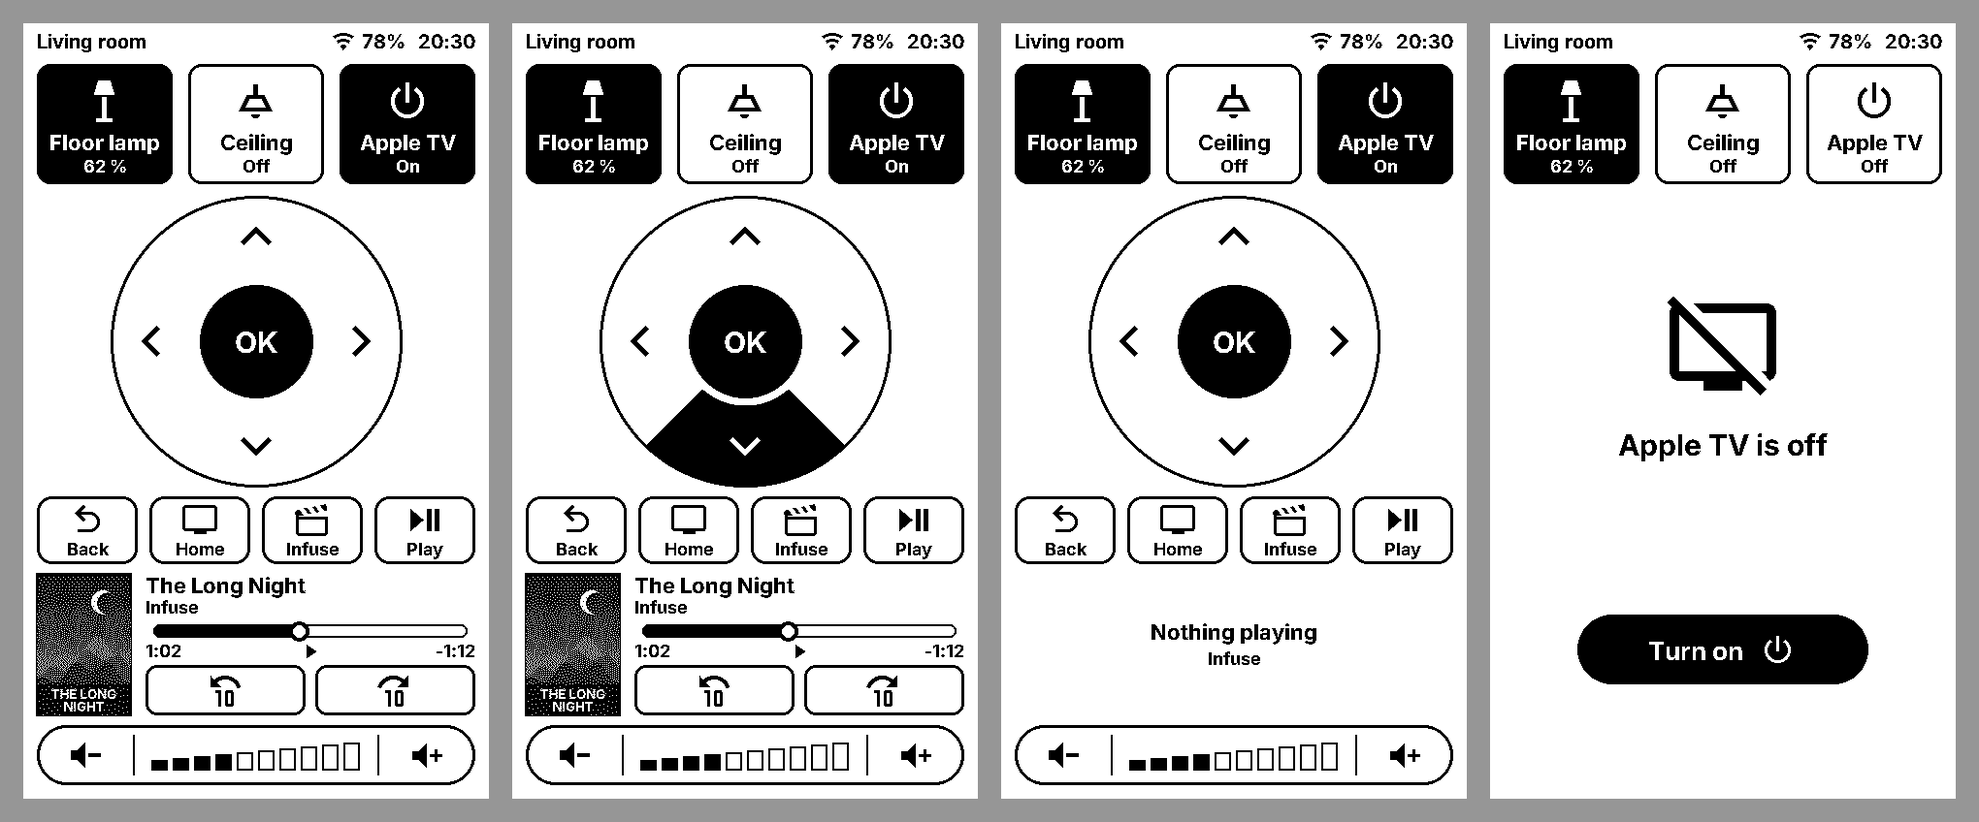
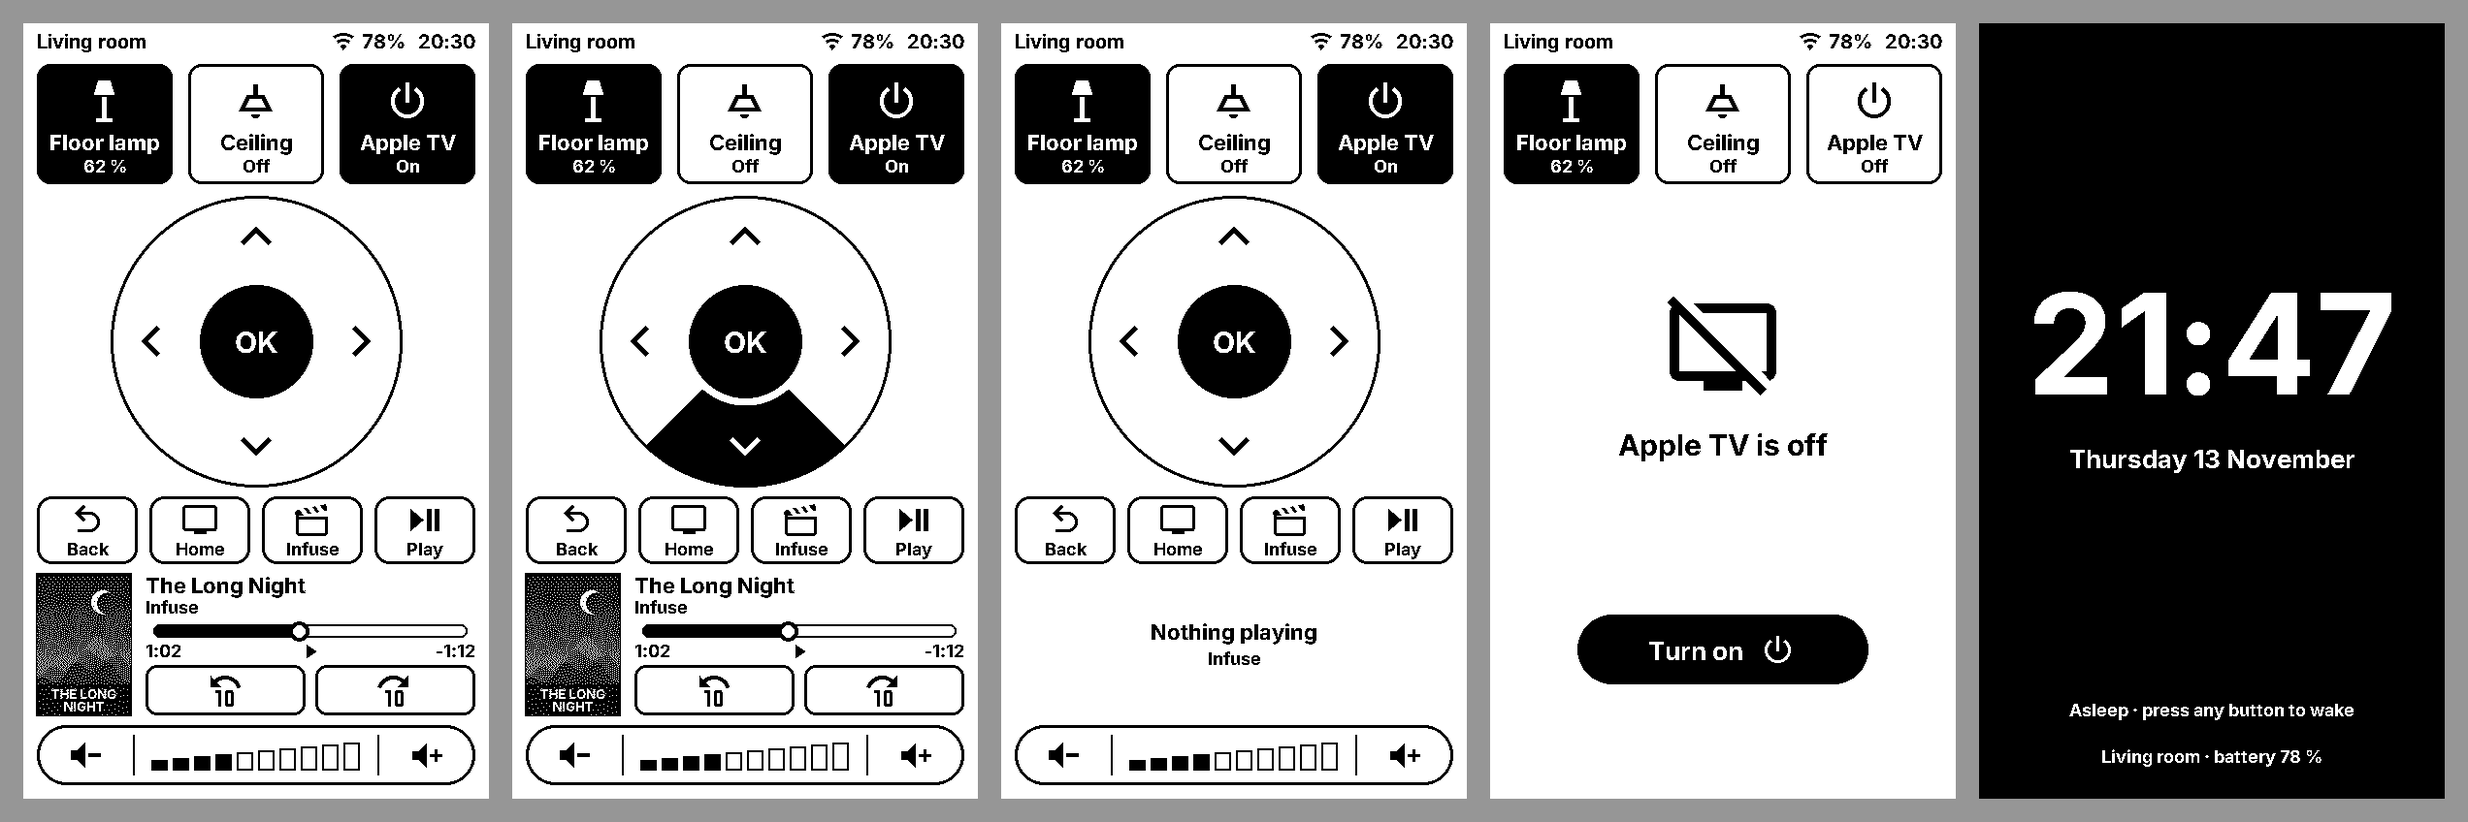
Sleep clock, light-sleep doze, Wi-Fi modem sleep off
Asleep on battery the panel now shows a large clock with the date, ticking
once a minute: the firmware disables Wi-Fi and dozes in ESP32 light sleep
(sticky::doze), waking on the timer for a partial refresh, on a button or
on USB power for real. The half hours get a full refresh to clear the ghost
of old digits. A "Clock while asleep" switch (HA, the setup page, the USB
protocol's sleep_clock) falls back to the dark face and deep sleep.

The clock digits are a font of their own in each set (Inter 144, TRMNL16 at
128), in the engine, the web glyph files and the README picture.

Taps: Wi-Fi power_save_mode none (ESPHome's ESP32 default is modem sleep,
which holds packets back and bunches them up); hold-to-repeat gives up after
3 s rather than 8 if the touch controller never reports the release.

Version 0.6.0.

diff --git a/web/sticky-serial.js b/web/sticky-serial.js
@@ -158,7 +158,7 @@ export class DemoSticky {
       this.state.settings = { player: "media_player.salon", remote: "remote.salon", player_name: "Apple TV", app: "Infuse",
         app_label: "Open Infuse", light1: "light.floor_lamp", light1_name: "Floor lamp", light1_icon: "floor",
         light2: "light.ceiling", light2_name: "Ceiling", light2_icon: "ceiling", room: "Salon", ha_url: "", font_set: "inter",
-        touch_sound: "quiet", sleep_after: "3" };
+        touch_sound: "quiet", sleep_after: "3", sleep_clock: "on" };
     }
   }
   /** Demo: after "flashing", the new version runs; erasing loses everything. */
@@ -182,7 +182,7 @@ export class DemoSticky {
       wifi: s.wifi && !(this.booted && Date.now() - this.booted < 4000) ? { connected: true, hotspot: false, ip: "192.168.1.57", ssid: s.wifi.ssid }
                    : { connected: false, hotspot: true, ip: "" },
       ha: s.ha, configured: !!(s.settings.player || s.settings.light1), settings: s.settings,
-      caps: ["scan", "touch_sound", "sleep_after"],
+      caps: ["scan", "touch_sound", "sleep_after", "sleep_clock"],
       networks: this.scanned && Date.now() - this.scanned > 2500
         ? [{ ssid: "Maison", rssi: -48, secure: true }, { ssid: "Maison-IoT", rssi: -61, secure: true },
            { ssid: "Maison", rssi: -70, secure: true }, { ssid: "Cafe du coin", rssi: -77, secure: false },

diff --git a/web/wizard.js b/web/wizard.js
@@ -31,7 +31,7 @@ const S = {
   settings: {
     player: "", remote: "", player_name: "", app: "", app_label: "",
     light1: "", light1_name: "", light1_icon: "bulb", light2: "", light2_name: "", light2_icon: "bulb",
-    room: "", ha_url: "", font_set: "inter", touch_sound: "quiet", sleep_after: "3",
+    room: "", ha_url: "", font_set: "inter", touch_sound: "quiet", sleep_after: "3", sleep_clock: "on",
   },
   timers: [],
   skipped: new Set(),   // steps this visit doesn't need (shown with a dash)
@@ -382,6 +382,8 @@ const VIEWS = [
               ${has("touch_sound") ? seg("touch_sound", "Sound when you tap", [["off", "Off"], ["quiet", "Quiet"], ["normal", "Normal"]]) : ""}
               ${has("sleep_after") ? `${seg("sleep_after", "On battery, sleeps after", [["1", "1 min"], ["3", "3 min"], ["10", "10 min"], ["30", "30 min"], ["never", "Never"]])}
                 <p class="hint" id="sleep-hint"></p>` : ""}
+              ${has("sleep_clock") ? `${seg("sleep_clock", "While asleep", [["on", "Clock"], ["off", "Dark screen"]])}
+                <p class="hint">The clock ticks once a minute, which costs some battery. The dark screen uses the least.</p>` : ""}
             </section>
             <details><summary>Advanced</summary>
               ${pick("remote", "remote", "The player's remote entity (arrows and OK)")}

diff --git a/firmware/sticky_device.h b/firmware/sticky_device.h
@@ -41,11 +41,13 @@
 #include "esphome/core/preferences.h"
 
 #include "driver/uart.h"
+#include "driver/gpio.h"
 #include "esp_crt_bundle.h"
 #include "esp_heap_caps.h"
 #include "esp_timer.h"
 #include "esp_wifi.h"
 #include "esp_http_client.h"
+#include "esp_sleep.h"
 #include "freertos/FreeRTOS.h"
 #include "freertos/task.h"
 #include "remote_ui.h"
@@ -55,7 +57,7 @@ namespace sticky {
 static const char *const TAG = "sticky";
 constexpr int PROTOCOL = 1;
 // What this firmware's USB protocol can do beyond version 1, for the setup page.
-static const char *const CAPS[] = {"scan", "touch_sound", "sleep_after"};
+static const char *const CAPS[] = {"scan", "touch_sound", "sleep_after", "sleep_clock"};
 
 struct Settings {
   std::string player, remote, player_name, app, app_label;
@@ -184,6 +186,64 @@ inline void set_sleep(uint8_t choice) {
 /// Milliseconds of inactivity before sleeping on battery; 0 = never.
 inline uint32_t sleep_after_ms() { return (uint32_t) SLEEP_MINUTES[sleep_choice()] * 60000u; }
 
+// --- Clock while asleep (its own preference) --------------------------------------
+// On: asleep on battery, the panel shows the time and the firmware dozes in
+// light sleep, waking once a minute to move it (doze() below). Off: the dark
+// "Asleep" face and deep sleep, which uses less.
+inline bool &clock_on() {
+  static bool on = true;
+  return on;
+}
+
+inline esphome::ESPPreferenceObject &clock_pref() {
+  static esphome::ESPPreferenceObject p = esphome::global_preferences->make_preference<uint8_t>(0x53434C4B, true);
+  return p;
+}
+
+inline void load_clock() {
+  uint8_t v = 1;
+  if (clock_pref().load(&v)) clock_on() = v != 0;
+  remote_ui::apply("sleep_clock", clock_on() ? "1" : "0");
+}
+
+inline void set_clock(bool on) {
+  if (on == clock_on()) return;
+  clock_on() = on;
+  const uint8_t v = on ? 1 : 0;
+  clock_pref().save(&v);
+  esphome::global_preferences->sync();
+  remote_ui::apply("sleep_clock", on ? "1" : "0");
+}
+
+enum class Woke { TIMER, BUTTON, USB, OTHER };
+
+/// Light sleep until the next whole minute (at most `max_s` seconds), a button
+/// (low on GPIO4/5/6) or USB power (high on GPIO9). Wi-Fi must be off first.
+/// Everything is kept: the panel's comparison frame, the clock, the settings.
+inline Woke doze(uint32_t max_s) {
+  const time_t t = ::time(nullptr);
+  uint32_t s = max_s;
+  if (t > 1600000000) s = std::min<uint32_t>(max_s, (uint32_t) (60 - t % 60));
+  if (s == 0) s = 60;
+  // The latch, charger and touch supply keep their levels; the buttons keep their pull-ups.
+  for (auto pin : {GPIO_NUM_45, GPIO_NUM_46, GPIO_NUM_39, GPIO_NUM_42, GPIO_NUM_4, GPIO_NUM_5, GPIO_NUM_6, GPIO_NUM_9})
+    gpio_sleep_sel_dis(pin);
+  for (auto pin : {GPIO_NUM_4, GPIO_NUM_5, GPIO_NUM_6}) gpio_wakeup_enable(pin, GPIO_INTR_LOW_LEVEL);
+  gpio_wakeup_enable(GPIO_NUM_9, GPIO_INTR_HIGH_LEVEL);
+  esp_sleep_enable_gpio_wakeup();
+  esp_sleep_enable_timer_wakeup((uint64_t) s * 1000000ULL + 200000ULL);   // just past the minute mark
+  esp_light_sleep_start();
+  const auto cause = esp_sleep_get_wakeup_cause();
+  // Leave nothing armed: deep sleep (clock off) sets up its own wake sources.
+  for (auto pin : {GPIO_NUM_4, GPIO_NUM_5, GPIO_NUM_6, GPIO_NUM_9}) gpio_wakeup_disable(pin);
+  esp_sleep_disable_wakeup_source(ESP_SLEEP_WAKEUP_GPIO);
+  esp_sleep_disable_wakeup_source(ESP_SLEEP_WAKEUP_TIMER);
+  esphome::App.feed_wdt();
+  if (cause == ESP_SLEEP_WAKEUP_TIMER) return Woke::TIMER;
+  if (cause == ESP_SLEEP_WAKEUP_GPIO) return gpio_get_level(GPIO_NUM_9) ? Woke::USB : Woke::BUTTON;
+  return Woke::OTHER;
+}
+
 // --- Touch calibration (its own preference, so settings resets keep it) -------
 struct StoredCal {
   uint32_t magic;
@@ -270,6 +330,7 @@ inline void apply_to_ui() {
   remote_ui::apply("light_icon1", s.light2_icon);
   remote_ui::apply("configured", s.configured() ? "1" : "0");
   remote_ui::apply("app_button", s.app);
+  remote_ui::apply("sleep_clock", clock_on() ? "1" : "0");
 }
 
 // --- Artwork ------------------------------------------------------------------------
@@ -628,6 +689,7 @@ inline std::string info(const char *event) {
 #undef X
     st["touch_sound"] = SOUND_NAMES[sound()];
     st["sleep_after"] = SLEEP_NAMES[sleep_choice()];
+    st["sleep_clock"] = clock_on() ? "on" : "off";
     JsonArray caps = root["caps"].to<JsonArray>();
     for (const char *cap : CAPS) caps.add(cap);
     if (w != nullptr) {
@@ -687,6 +749,10 @@ inline void handle(const std::string &line) {
       const std::string choice = in["sleep_after"].as<const char *>();
       for (uint8_t i = 0; i < SLEEP_CHOICES; i++)
         if (choice == SLEEP_NAMES[i]) set_sleep(i);
+    }
+    if (!in.isNull() && in["sleep_clock"].is<const char *>()) {
+      const std::string v = in["sleep_clock"].as<const char *>();
+      if (v == "on" || v == "off") set_clock(v == "on");
     }
     if (!in.isNull() && !save(s)) return send_error("Could not save the settings.");
     send_line(esphome::json::build_json([](JsonObject root) {

diff --git a/firmware/remote_ui.h b/firmware/remote_ui.h
@@ -131,6 +131,8 @@ struct Model {
   bool online = false;
   float battery = NAN;
   bool usb = false;
+  bool sleep_clock = true;        // asleep on battery: a clock that ticks every minute
+  int dow = 0, day = 0, month = 0;   // the local date, for the sleep clock (0: unknown)
   Page page = Page::REMOTE;   // always Remote since 0.5.0 (one page); kept for the engine's API
   bool state_seen = false;
   Press pressed = Press::NONE;
@@ -532,6 +534,7 @@ inline int shown_minute(const Model &m, int64_t now_epoch) {
 struct Fonts {
   BaseFont *t18, *t20, *t22, *t26, *t30;
   BaseFont *i24, *i40, *i52, *i64, *i120;
+  BaseFont *clock;   // digits and a colon only, for the sleep clock
 };
 
 struct Ctx {
@@ -1014,20 +1017,34 @@ inline void draw_setup_sleep(Ctx &c, const Model &m) {
   print_wrapped(c, M + 30, 560, c.f.t18, c.ink, "Plugged into USB, it stays awake during setup.", W - 2 * M - 60, 24);
 }
 
-// The face left on the panel during deep sleep: drawn instead of the bottom
-// controls, which do nothing until a button wakes the device.
-// The face left on the panel during deep sleep. Dark, and nothing like the
-// live screen: tiles and playback shown there would be stale, and would look
-// as if they still answered a tap.
+// The face left on the panel while the Sticky sleeps. Dark, and nothing like
+// the live screen: tiles and playback shown there would be stale, and would
+// look as if they still answered a tap. With the sleep clock on, the time
+// takes the middle and ticks once a minute (the firmware dozes in between).
+static const char *const DAY_NAMES[] = {"", "Sunday", "Monday", "Tuesday", "Wednesday", "Thursday", "Friday", "Saturday"};
+static const char *const MONTH_NAMES[] = {"", "January", "February", "March", "April", "May", "June", "July",
+                                          "August", "September", "October", "November", "December"};
+
 inline void draw_asleep(Ctx &c, const Model &m, const char *room, bool time_valid, int hour, int minute) {
   c.it.fill(c.ink);
-  c.it.print(W / 2, 290, c.f.i120, c.paper, TextAlign::CENTER, ICON_SLEEP);
-  c.it.print(W / 2, 390, c.f.t30, c.paper, TextAlign::CENTER, "Asleep");
-  c.it.print(W / 2, 436, c.f.t20, c.paper, TextAlign::CENTER, "Press any button to wake");
+  const bool clock = m.sleep_clock && time_valid;
+  char buf[48];
+  if (clock) {
+    snprintf(buf, sizeof buf, "%d:%02d", hour, minute);
+    c.it.print(W / 2, 330, c.f.clock, c.paper, TextAlign::CENTER, buf);
+    if (m.month >= 1 && m.month <= 12 && m.dow >= 1 && m.dow <= 7) {
+      snprintf(buf, sizeof buf, "%s %d %s", DAY_NAMES[m.dow], m.day, MONTH_NAMES[m.month]);
+      c.it.print(W / 2, 448, c.f.t26, c.paper, TextAlign::CENTER, buf);
+    }
+    c.it.print(W / 2, H - 92, c.f.t18, c.paper, TextAlign::CENTER, "Asleep · press any button to wake");
+  } else {
+    c.it.print(W / 2, 290, c.f.i120, c.paper, TextAlign::CENTER, ICON_SLEEP);
+    c.it.print(W / 2, 390, c.f.t30, c.paper, TextAlign::CENTER, "Asleep");
+    c.it.print(W / 2, 436, c.f.t20, c.paper, TextAlign::CENTER, "Press any button to wake");
+  }
   // What was true when it fell asleep, said as such.
   std::string foot = room;
-  char buf[40];
-  if (time_valid) {
+  if (time_valid && !clock) {
     snprintf(buf, sizeof buf, "%ssince %d:%02d", foot.empty() ? "" : " · ", hour, minute);
     foot += buf;
   }
@@ -1325,6 +1342,15 @@ inline void apply(const std::string &key, const std::string &v) {
   } else if (key == "configured") {
     m.configured = v == "1";
     return request(true);
+  } else if (key == "sleep_clock") {
+    m.sleep_clock = v == "1";
+    if (!m.sleeping) return;
+  } else if (key == "date") {   // "day-of-week day month", as ESPTime counts them (Sunday = 1)
+    int dow = 0, day = 0, month = 0;
+    sscanf(v.c_str(), "%d %d %d", &dow, &day, &month);
+    if (dow == m.dow && day == m.day && month == m.month) return;
+    m.dow = dow; m.day = day; m.month = month;
+    if (!m.sleeping) return;
   } else if (key == "picture") {
     // New artwork: no poster until its download lands.
     const std::string pic = clean(v);
@@ -1364,7 +1390,9 @@ inline Actions *&actions() {
 // Keeping a finger on an arrow (or a volume end) repeats it, so long lists
 // scroll without tapping. A repeat sends the command and nothing else: the
 // arrow is already shown pressed, so the screen has nothing to redraw.
-constexpr uint32_t HOLD_START_MS = 450, HOLD_EVERY_MS = 220, HOLD_MAX_MS = 8000;
+// HOLD_MAX_MS bounds a release the touch controller never reported: after it
+// the finger has to lift and press again, which also ends a runaway repeat.
+constexpr uint32_t HOLD_START_MS = 450, HOLD_EVERY_MS = 220, HOLD_MAX_MS = 3000;
 
 struct Hold {
   Action action = NONE;

diff --git a/web/make_web_fonts.py b/web/make_web_fonts.py
@@ -1,7 +1,8 @@
 #!/usr/bin/env python3
 """Extracts the firmware's exact glyphs from an ESPHome build (main.cpp) into
 web/fonts/<set>/<role>.fnt, the format the engine's sc_font_load_fnt_text reads.
-Both typefaces are in every build: Inter t18…t30, TRMNL r18…r30; icons i24…i120.
+Both typefaces are in every build: Inter t18…t30, TRMNL r18…r30; icons i24…i120;
+the sleep clock's digits (clock_inter, clock_trmnl).
 
   python3 web/make_web_fonts.py [path/to/main.cpp]
 """
@@ -21,12 +22,12 @@ for m in re.finditer(r"static constexpr font::Glyph (\w+)\[\] PROGMEM = \{(.*)\}
 fonts = {m[1]: (int(m[3]), int(m[4]), tables[m[2]])
          for m in re.finditer(r"new\((\w+)\) font::Font\((\w+), \d+, (\d+), (\d+),", src)}
 
-roles = ["t18", "t20", "t22", "t26", "t30", "i24", "i40", "i52", "i64", "i120"]
+roles = ["t18", "t20", "t22", "t26", "t30", "i24", "i40", "i52", "i64", "i120", "clock"]
 for set_name, prefix in (("inter", "t"), ("trmnl", "r")):
     out = ROOT / "web" / "fonts" / set_name
     out.mkdir(parents=True, exist_ok=True)
     for role in roles:
-        fid = prefix + role[1:] if role.startswith("t") else role
+        fid = prefix + role[1:] if role.startswith("t") else f"clock_{set_name}" if role == "clock" else role
         baseline, height, glyphs = fonts[fid]
         lines = [f"font {baseline} {height}"]
         for cp, arr, off, adv, ox, oy, w, h in glyphs:

diff --git a/design/render_screens.py b/design/render_screens.py
@@ -21,7 +21,7 @@ PLAYING = ["atv_state playing", "app Infuse", "title The Long Night", "duration 
            "position_at 2026-10-26T18:00:00+00:00", "picture night"]
 
 
-def shot(extra, taps=(), with_poster=False):
+def shot(extra, taps=(), with_poster=False, hm=(20, 30)):
     p = subprocess.Popen([str(TMP / "sim"), str(ROOT / "web" / "fonts" / "inter")],
                          stdin=subprocess.PIPE, stdout=subprocess.PIPE, text=True)
     def cmd(line):
@@ -34,16 +34,17 @@ def shot(extra, taps=(), with_poster=False):
         cmd(f"poster {raw} {poster.width} {poster.height}")
     for x, y in taps:
         cmd(f"tap {x} {y} {NOW}")
-    time.sleep(0.35)
+    time.sleep(0.5)
     pbm = TMP / "screens.pbm"
-    cmd(f"frame {pbm} 1 20 30 {NOW}")
+    cmd(f"frame {pbm} 1 {hm[0]} {hm[1]} {NOW}")
     im = Image.open(pbm).convert("L")
     p.kill()
     return im
 
 
 screens = [shot(PLAYING, with_poster=True), shot(PLAYING, taps=[(240, 440)], with_poster=True),   # a pressed arrow
-           shot(["atv_state idle", "app Infuse"]), shot(["atv_state off"])]
+           shot(["atv_state idle", "app Infuse"]), shot(["atv_state off"]),
+           shot(["atv_state off", "date 5 13 11", "sleeping 1"], hm=(21, 47))]   # asleep, with the clock
 gap = 24
 sheet = Image.new("L", (len(screens) * 480 + (len(screens) + 1) * gap, 800 + 2 * gap), 150)
 for i, im in enumerate(screens):

diff --git a/engine/core/sticky_core.cpp b/engine/core/sticky_core.cpp
@@ -15,11 +15,11 @@ namespace {
 
 display::BaseFont g_fonts[SC_FONT_COUNT];
 const char *const kFontNames[SC_FONT_COUNT] = {"t18", "t20", "t22", "t26", "t30",
-                                               "i24", "i40", "i52", "i64", "i120"};
+                                               "i24", "i40", "i52", "i64", "i120", "clock"};
 
 const remote_ui::Fonts &fonts() {
   static const remote_ui::Fonts f{&g_fonts[0], &g_fonts[1], &g_fonts[2], &g_fonts[3], &g_fonts[4],
-                                  &g_fonts[5], &g_fonts[6], &g_fonts[7], &g_fonts[8], &g_fonts[9]};
+                                  &g_fonts[5], &g_fonts[6], &g_fonts[7], &g_fonts[8], &g_fonts[9], &g_fonts[10]};
   return f;
 }
 

diff --git a/engine/make_fonts.py b/engine/make_fonts.py
@@ -37,7 +37,8 @@ SETS = json.loads((ROOT / "firmware" / "fonts" / "sets.json").read_text())
 
 
 def fonts_for(set_name):
-    text = {role: (ROOT / "firmware" / "fonts" / path, size, TEXT_CHARS)
+    chars = SETS.get("_chars", {})   # roles with a glyph subset (the clock: digits only)
+    text = {role: (ROOT / "firmware" / "fonts" / path, size, list(chars.get(role, TEXT_CHARS)))
             for role, (path, size) in SETS[set_name]["fonts"].items()}
     return {**text, **ICON_FONTS}
 

diff --git a/engine/core/include/sticky_core.h b/engine/core/include/sticky_core.h
@@ -9,7 +9,7 @@ extern "C" {
 #endif
 
 enum { SC_WIDTH = 480, SC_HEIGHT = 800 };
-enum { SC_FONT_COUNT = 10 };  // t18 t20 t22 t26 t30 i24 i40 i52 i64 i120, in that order
+enum { SC_FONT_COUNT = 11 };  // t18 t20 t22 t26 t30 i24 i40 i52 i64 i120 clock, in that order
 enum { SC_REFRESH_NONE = 0, SC_REFRESH_PARTIAL = 1, SC_REFRESH_FULL = 2 };
 enum { SC_BUTTON_AI = 0, SC_BUTTON_UP = 1, SC_BUTTON_DOWN = 2 };
 enum { SC_MODE_OFF = 0, SC_MODE_IDLE = 1, SC_MODE_PLAYING = 2 };

diff --git a/README.md b/README.md
@@ -38,11 +38,15 @@ page runs the whole wizard without a Sticky or a Home Assistant.
 - **One page, no tabs.** Everything is on screen at once, so nothing you do
   needs more than a fast partial refresh. The full refresh that clears
   e-paper ghosting waits until the Sticky has been left alone for 3 seconds.
-- **Sleep**: on battery it deep-sleeps after 1, 3 (default), 10 or 30 minutes,
-  or never by itself; the AI button puts it to sleep at once and any button
-  wakes it. Asleep, the panel shows a dark "Asleep" screen, not the last state.
-- **Touch sound** (Off, Quiet, Normal) and **Sleep after**: from the setup page
-  or the Sticky's device page in Home Assistant (`select`s under Configuration).
+- **Sleep**: on battery it sleeps after 1, 3 (default), 10 or 30 minutes, or
+  never by itself; the AI button puts it to sleep at once and any button wakes
+  it. Asleep, the panel shows a dark screen, not the last state: by default a
+  large **clock** with the date, which ticks once a minute (the Sticky dozes
+  in light sleep in between, Wi-Fi off, and wakes for a second to move it).
+  With the clock off it shows "Asleep" and deep-sleeps, which uses the least.
+- **Touch sound** (Off, Quiet, Normal), **Sleep after** and **Clock while
+  asleep**: from the setup page or the Sticky's device page in Home Assistant
+  (under Configuration).
 - **Artwork** loads in a background task: download (HTTPS with certificate
   checks) and JPEG decode at 1/2, 1/4 or 1/8 scale never hold up touch or the
   screen. Other formats fall back to ESPHome's `online_image`.
@@ -156,15 +160,16 @@ newline-delimited JSON lines with `"sticky":"setup"`.
 - `{"sticky":"setup","cmd":"scan"}` starts a Wi-Fi scan; the networks come
   with the next `get`, a few seconds later.
 - The info line's `caps` lists what the firmware supports beyond the first
-  protocol (`scan`, `touch_sound`, `sleep_after`); the setup page hides what's missing.
+  protocol (`scan`, `touch_sound`, `sleep_after`, `sleep_clock`); the setup page hides what's missing.
 - Development builds (`touch_calibration: "true"`) add
   `{"sticky":"setup","cmd":"calibrate"}` and `{"sticky":"setup","cmd":"touch_reset"}`.
   The info line's `touch` object gives the map in use and its source.
 - Setting fields: `player remote player_name app app_label light1 light1_name
   light1_icon light2 light2_name light2_icon room ha_url font_set`. Icons are
   `bulb`, `ceiling`, `floor` or `star`; `font_set` is `inter` or `trmnl`.
-  `touch_sound` (`off`, `quiet`, `normal`) and `sleep_after` (`1`, `3`, `10`,
-  `30` minutes, or `never`) are accepted in `settings` too.
+  `touch_sound` (`off`, `quiet`, `normal`), `sleep_after` (`1`, `3`, `10`,
+  `30` minutes, or `never`) and `sleep_clock` (`on`, `off`) are accepted in
+  `settings` too.
 - Send at most 64 bytes every ~10 ms: the receive buffer is small.
 
 ## What to check on a real device
@@ -181,8 +186,12 @@ newline-delimited JSON lines with `"sticky":"setup"`.
    logged as `touch x=… y=… raw x=… y=…`.
 3. **Power latch**: the device stays on after you let go of the button.
 4. **Sleep and wake**: after the chosen time on battery, or on an AI press, it
-   shows the dark "Asleep" screen, and any button wakes it. On USB it stays awake
-   unless you press AI.
+   shows the clock (or the dark "Asleep" screen), and any button wakes it. On
+   USB it stays awake unless you press AI. With the clock, check that the
+   minute moves without a flash (a partial refresh), that the half hours get
+   one full refresh, that a button wakes it within a second and Wi-Fi comes
+   back, and how much battery a night costs: the light sleep behind it keeps
+   the touch controller powered, and no one has measured it yet.
 5. **Artwork**: a poster shows up when something plays.
 
 ## Notes
@@ -192,6 +201,12 @@ newline-delimited JSON lines with `"sticky":"setup"`.
   refresh (a tap, the minute tick) turns the whole panel back to black and
   white until the next full one. The greys are layered on the black-and-white
   dither, so that state looks exactly like the default build.
+- **Light sleep for the clock**: `sticky::doze()` (in `sticky_device.h`)
+  arms the three buttons, the USB-power pin and a timer to the next whole
+  minute, then calls `esp_light_sleep_start()`; everything (the panel's
+  comparison frame, the clock, the settings) survives, so the minute tick is
+  an ordinary partial refresh. Wi-Fi is disabled first and re-enabled on wake.
+  Deep sleep (clock off) is unchanged.
 - **Media details**: HA sends an attribute only when it changes and never
   says when one disappears, so the Sticky clears title, artist and series
   itself when playback stops or the app changes.
